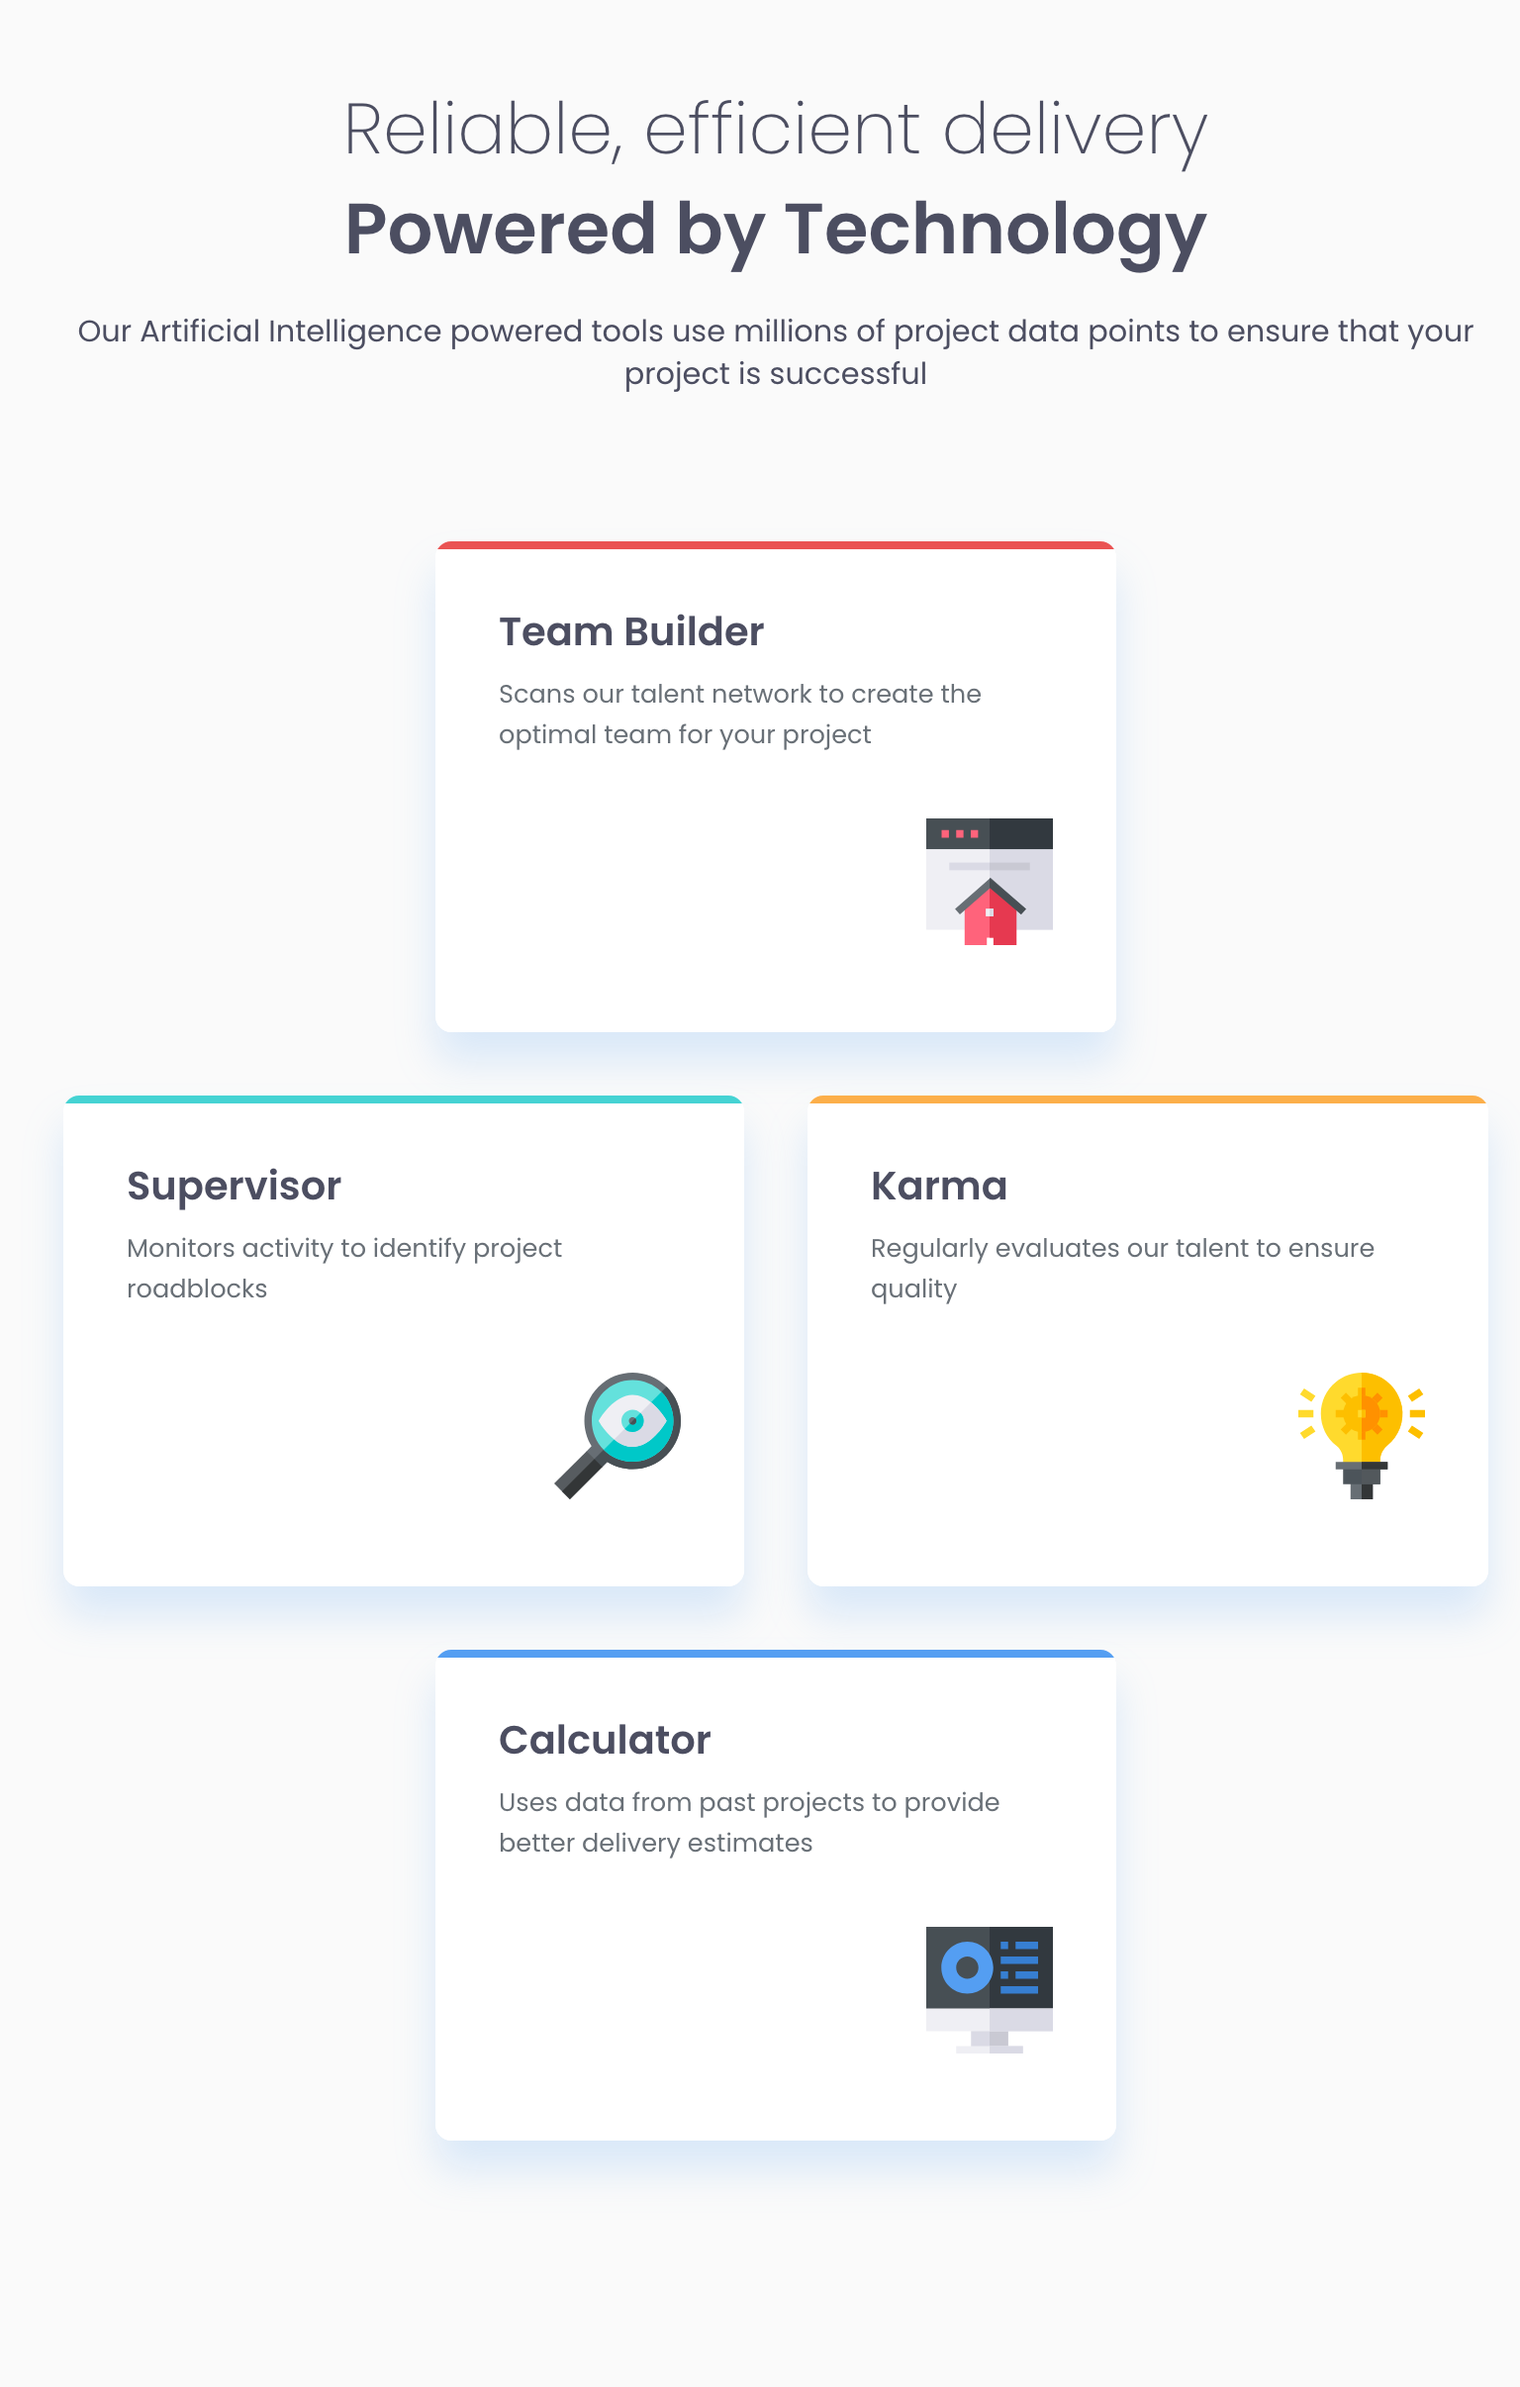
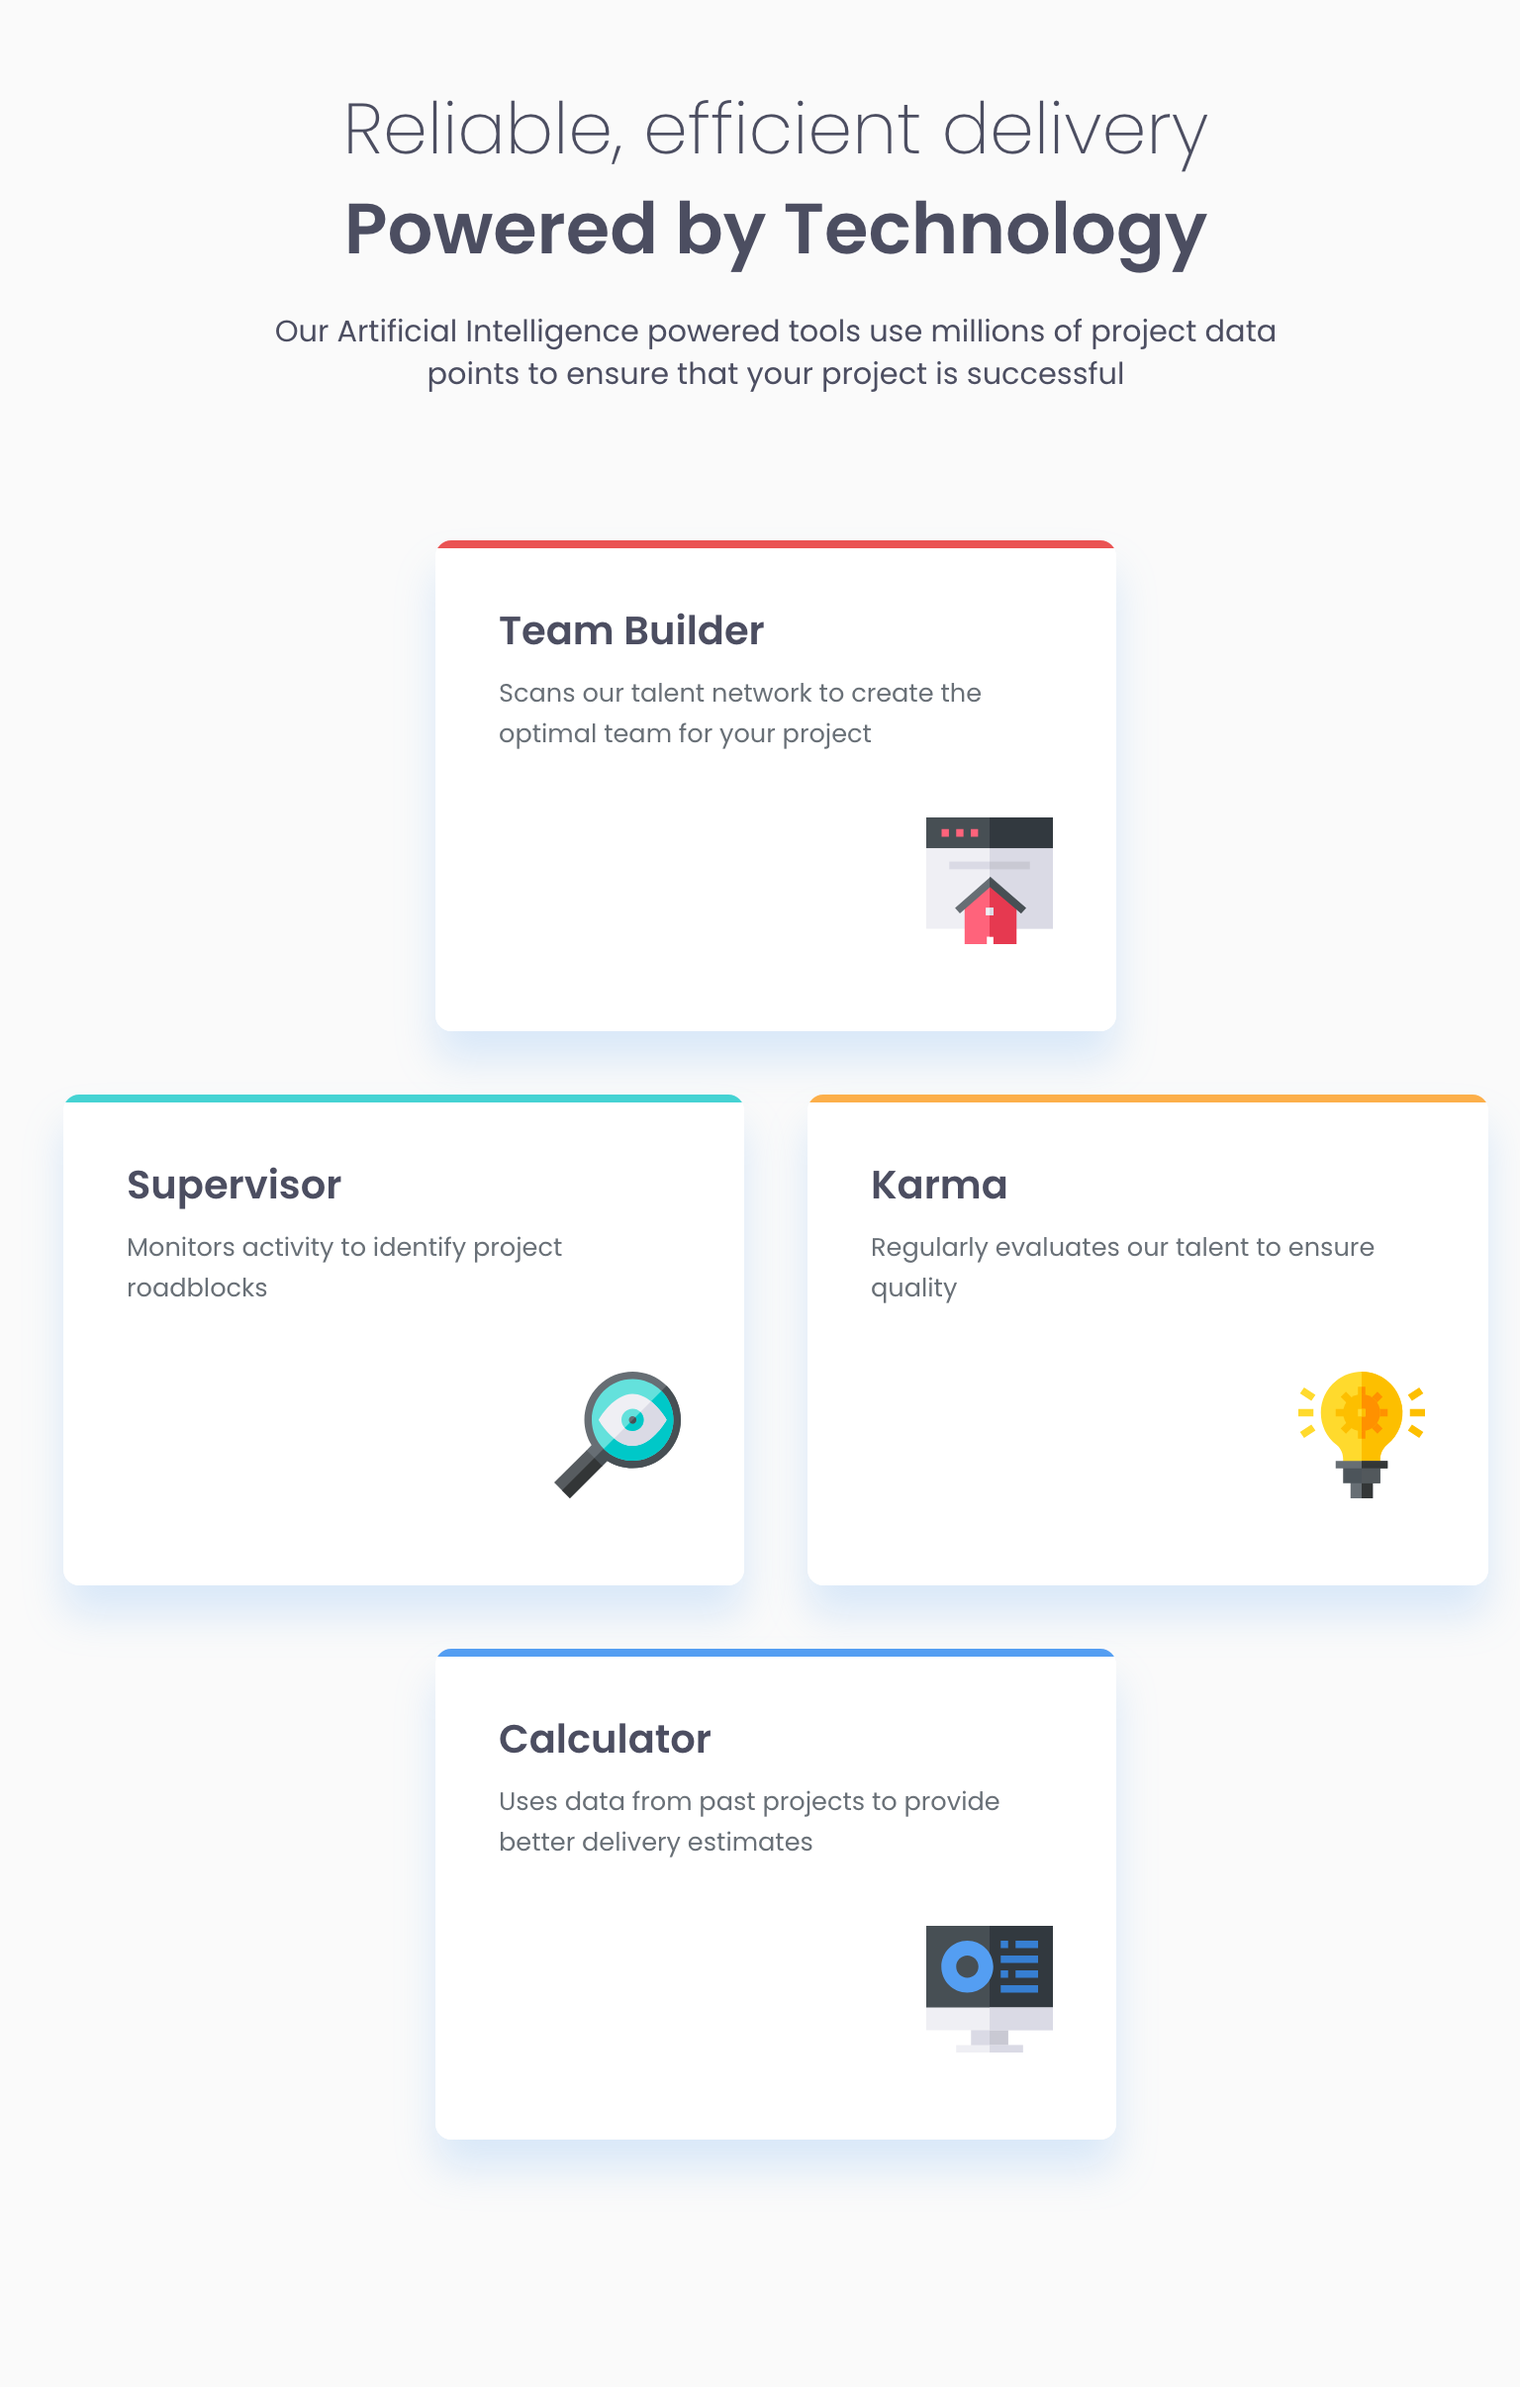
fix: adjust macro layuot

diff --git a/styles/style.css b/styles/style.css
@@ -10,7 +10,9 @@ body {
 
   display: grid;
   min-height: 100vh;
-  place-content: center;
+
+  align-content: start;
+  justify-items: center;
   gap: 3.75rem;
   margin: var(--spacing-500) var(--spacing-400);
 
@@ -108,9 +110,12 @@ body {
 @media only screen and (min-width: 48rem) {
   /* Header */
   .feature-section {
-    gap: 74px;
+    gap: 4.6rem;
   }
+  .feature-section__header {
+    max-width: 33.75rem;
 
+  }
   /* Cards */
   .feature-section__cards {
     grid-template-columns: repeat(2, max-content);
